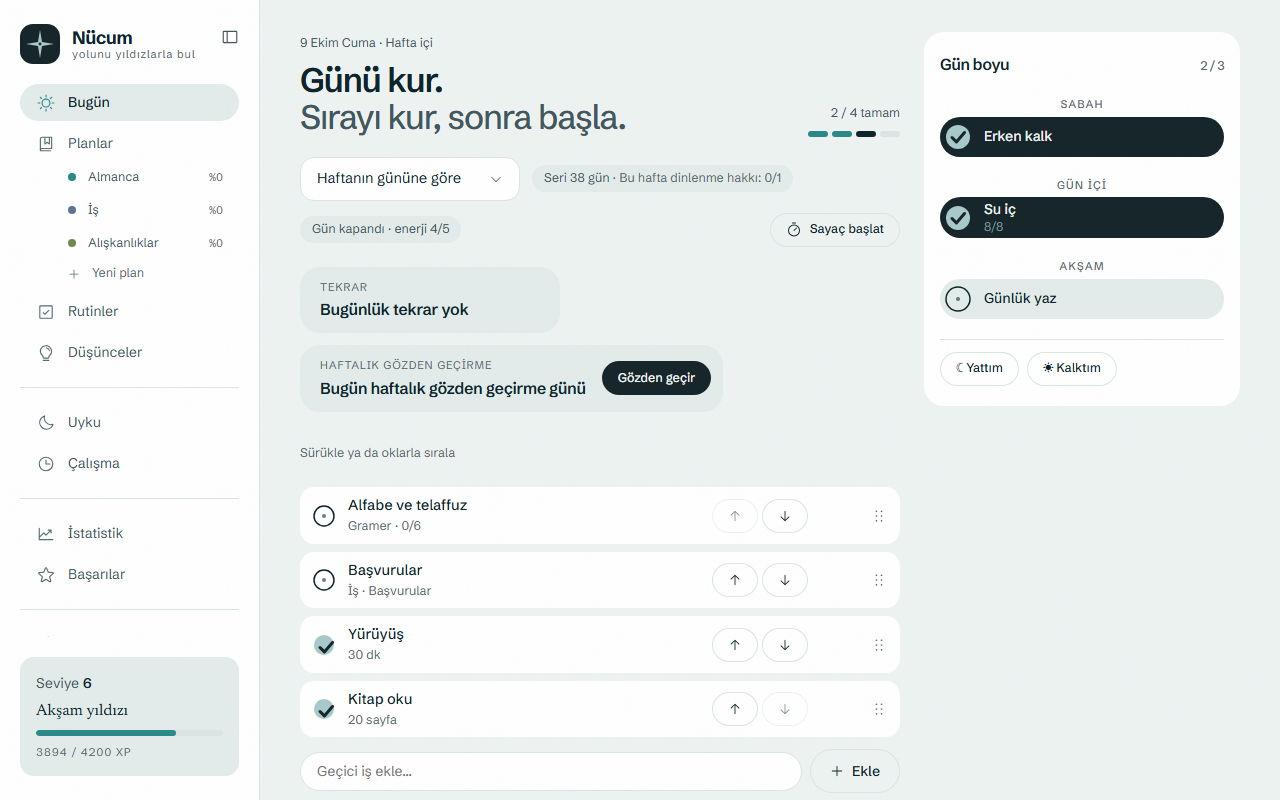
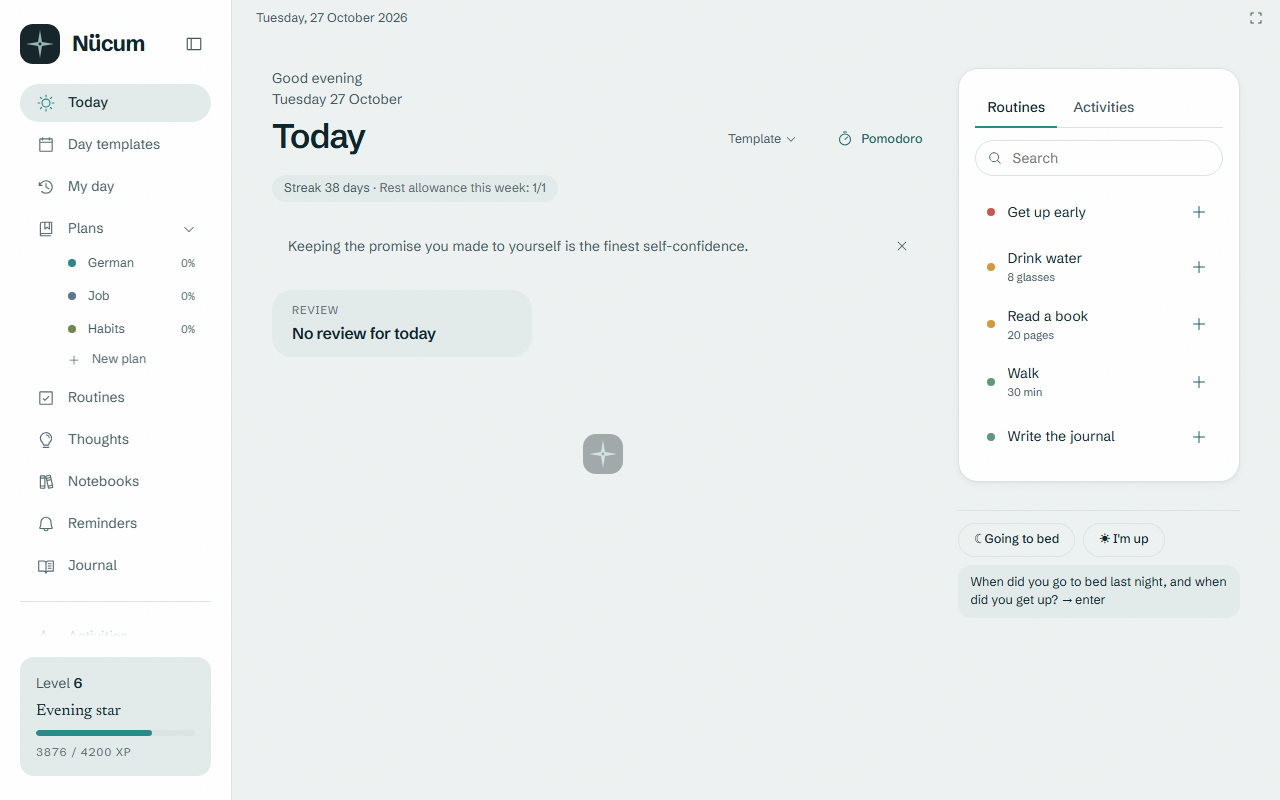
Phase 19: English UI — English screenshots, ADR 0047, i18n code samples

diff --git a/code-samples/frontend/src/i18n/locale.ts b/code-samples/frontend/src/i18n/locale.ts
@@ -1,0 +1,86 @@
+// File summary: Date, number and percent formatting in the UI language
+// (Phase 19, DECISIONS F167). uiLocale() maps the current i18next language
+// to a BCP 47 locale: Turkish → tr-TR, English → en-GB (24-hour clock,
+// day before month, week starts on Monday, like the Turkish UI). Modules
+// keep their formatter constants, but build them with uiDateFormat /
+// uiNumberFormat instead of `new Intl.*('tr-TR')`. Tested in locale.test.ts.
+// Lives in src/i18n.
+import { currentLanguage } from './i18n';
+import type { UiLanguage } from './language-rules';
+
+export type UiLocale = 'tr-TR' | 'en-GB';
+
+// WHY en-GB and not en-US: the app is built around a 24-hour day (bedtime
+// 23:30, logical day ends at 04:00) and Monday-first weeks. en-US would
+// show "11:30 PM" and "10/27/2026", which reads oddly next to the rest.
+export function localeFor(lang: UiLanguage): UiLocale {
+  return lang === 'en' ? 'en-GB' : 'tr-TR';
+}
+
+export function uiLocale(): UiLocale {
+  return localeFor(currentLanguage());
+}
+
+// CONCEPT: Lazy formatter (resolve the locale at call time).
+// `const DATE = new Intl.DateTimeFormat('tr-TR', …)` at module level is
+// built once, when the file first loads; switching the language later would
+// leave it Turkish forever. These wrappers keep the same shape (a constant
+// with .format()), but pick the Intl object for the CURRENT locale on every
+// call. Intl objects are slow to build, so each locale+options pair is
+// built once and cached.
+// GOTCHA: the cache key is the options as JSON. Options objects written in
+// a different key order get two cache entries; harmless, just one more.
+// INTERVIEW: "Why not create Intl.DateTimeFormat inside render?" → it is
+// expensive (locale data lookup); cache it, but key the cache by locale.
+// → Roadmap: Ay 2 · Faz 7 — Localization & Globalization
+const dateCache = new Map<string, Intl.DateTimeFormat>();
+const numberCache = new Map<string, Intl.NumberFormat>();
+
+function cachedDate(locale: UiLocale, options: Intl.DateTimeFormatOptions): Intl.DateTimeFormat {
+  const key = `${locale}|${JSON.stringify(options)}`;
+  let f = dateCache.get(key);
+  if (!f) {
+    f = new Intl.DateTimeFormat(locale, options);
+    dateCache.set(key, f);
+  }
+  return f;
+}
+
+function cachedNumber(locale: UiLocale, options: Intl.NumberFormatOptions): Intl.NumberFormat {
+  const key = `${locale}|${JSON.stringify(options)}`;
+  let f = numberCache.get(key);
+  if (!f) {
+    f = new Intl.NumberFormat(locale, options);
+    numberCache.set(key, f);
+  }
+  return f;
+}
+
+export interface UiDateFormat {
+  format(date?: Date | number): string;
+  formatToParts(date?: Date | number): Intl.DateTimeFormatPart[];
+}
+
+export interface UiNumberFormat {
+  format(value: number | bigint): string;
+}
+
+// `locale` is for tests and for code that must format in a fixed language;
+// the UI leaves it out.
+export function uiDateFormat(options: Intl.DateTimeFormatOptions, locale?: () => UiLocale): UiDateFormat {
+  const pick = () => cachedDate(locale ? locale() : uiLocale(), options);
+  return {
+    format: (date) => pick().format(date),
+    formatToParts: (date) => pick().formatToParts(date),
+  };
+}
+
+export function uiNumberFormat(options: Intl.NumberFormatOptions = {}, locale?: () => UiLocale): UiNumberFormat {
+  return { format: (value) => cachedNumber(locale ? locale() : uiLocale(), options).format(value) };
+}
+
+// Percent from a 0–100 number: Turkish puts the sign first ("%67"),
+// English after ("67%"). Intl knows which; a template like `%${n}` does not.
+export function formatPercent(value: number, maximumFractionDigits = 0, locale: UiLocale = uiLocale()): string {
+  return cachedNumber(locale, { style: 'percent', maximumFractionDigits }).format(value / 100);
+}

diff --git a/code-samples/frontend/src/i18n/i18n-parity.test.ts b/code-samples/frontend/src/i18n/i18n-parity.test.ts
@@ -1,0 +1,70 @@
+// File summary: Turkish/English parity of the UI copy (Phase 19, DECISIONS
+// F165, ADR 0047). For every namespace in src/i18n/tr (source.json too) an
+// English twin must exist with the same keys and the same {{placeholders}},
+// and English values must not carry Turkish letters (a forgotten copy-paste
+// would show Turkish in the English UI). Runs with `npm run test` (vitest).
+import { existsSync, readdirSync, readFileSync } from 'node:fs';
+import path from 'node:path';
+import { describe, expect, it } from 'vitest';
+
+const dir = import.meta.dirname;
+const namespaces = readdirSync(path.join(dir, 'tr')).filter((f) => f.endsWith('.json'));
+
+type Json = string | number | boolean | null | Json[] | { [k: string]: Json };
+
+// Flattens {"a":{"b":"x"},"c":["y"]} to [["a.b","x"],["c.0","y"]].
+function flatten(value: Json, prefix = '', out = new Map<string, string>()): Map<string, string> {
+  if (typeof value === 'string') out.set(prefix, value);
+  else if (Array.isArray(value)) value.forEach((v, i) => flatten(v, prefix ? `${prefix}.${i}` : String(i), out));
+  else if (value !== null && typeof value === 'object') {
+    for (const [k, v] of Object.entries(value)) flatten(v, prefix ? `${prefix}.${k}` : k, out);
+  } else out.set(prefix, String(value));
+  return out;
+}
+
+// A missing twin loads as empty, so the key test lists what is missing
+// instead of the whole file crashing at collection time.
+function load(lang: string, file: string): Map<string, string> {
+  const p = path.join(dir, lang, file);
+  return existsSync(p) ? flatten(JSON.parse(readFileSync(p, 'utf8')) as Json) : new Map<string, string>();
+}
+
+// "{{n, plural(one: day; other: days)}}" → "n". English may use a variable
+// twice (number + plural word), so names are compared as sets.
+function placeholders(text: string): string[] {
+  const names = [...text.matchAll(/\{\{\s*([^,}\s]+)[^}]*\}\}/g)].map((m) => m[1] ?? '');
+  return [...new Set(names)].sort();
+}
+
+// Turkish-only grammar helpers English does not need (the locative suffix
+// after a time: "07:30'da").
+const DROPPABLE = new Set(['sfx']);
+
+// Texts that are meant to stay as they are in English: language names
+// written in their own language. The app name "Nücum" is a proper name.
+const TURKISH_ALLOWED = new Set(['pages.json:settings.language.tr', 'pages.json:settings.cards.language']);
+const TURKISH_LETTERS = /[çğıİöşüÇĞÖŞÜ]/;
+
+describe.each(namespaces)('%s', (file) => {
+  const tr = load('tr', file);
+  const en = load('en', file);
+
+  it('has the same keys in English', () => {
+    expect([...en.keys()].filter((k) => !tr.has(k))).toEqual([]);
+    expect([...tr.keys()].filter((k) => !en.has(k))).toEqual([]);
+  });
+
+  it('keeps every {{placeholder}}', () => {
+    const wrong = [...tr].filter(([k, v]) => {
+      const want = placeholders(v);
+      const got = placeholders(en.get(k) ?? '');
+      return en.has(k) && (got.some((p) => !want.includes(p)) || want.some((p) => !got.includes(p) && !DROPPABLE.has(p)));
+    }).map(([k]) => k);
+    expect(wrong).toEqual([]);
+  });
+
+  it('has no Turkish letters in English', () => {
+    const turkish = [...en].filter(([k, v]) => TURKISH_LETTERS.test(v.replaceAll('Nücum', '')) && !TURKISH_ALLOWED.has(`${file}:${k}`)).map(([k, v]) => `${k}: ${v}`);
+    expect(turkish).toEqual([]);
+  });
+});

diff --git a/code-samples/frontend/src/i18n/plural.ts b/code-samples/frontend/src/i18n/plural.ts
@@ -1,0 +1,25 @@
+// File summary: The "plural" interpolation formatter for i18next (Phase 19,
+// DECISIONS F168). English copy writes `{{n}} {{n, plural(one: day; other:
+// days)}}`; this picks the word with Intl.PluralRules. Turkish copy never
+// uses it (Turkish nouns do not change after a number). Registered in
+// i18n.ts, tested in plural.test.ts. Lives in src/i18n.
+
+// CONCEPT: Plural rules (CLDR).
+// Languages split numbers into groups: English has "one" (1) and "other"
+// (0, 2, 1.5 …); Arabic has six groups. Intl.PluralRules knows them, so the
+// copy only names the forms it needs and the browser picks the group.
+// WHY: i18next's own plurals want a `count` option and a key per form
+// (day_one, day_other). That would change hundreds of t() calls that pass
+// `{ n }` today. One formatter keeps every call as it is.
+// GOTCHA: a missing form falls back to "other", then to an empty string,
+// never to the raw format text; a non-number value is shown as "other".
+// INTERVIEW: "How do you handle plurals in i18n?" → never `n === 1 ? …`;
+// use CLDR rules (Intl.PluralRules), because many languages have more than
+// two forms.
+// → Roadmap: Ay 2 · Faz 7 — Localization & Globalization
+export function pluralWord(value: unknown, lng: string | undefined, forms: Readonly<Record<string, unknown>>): string {
+  const n = typeof value === 'number' ? value : Number(value);
+  const group = Number.isFinite(n) ? new Intl.PluralRules(lng ?? 'en').select(n) : 'other';
+  const word = forms[group] ?? forms['other'];
+  return typeof word === 'string' ? word : '';
+}

diff --git a/code-samples/frontend/src/api/client.ts b/code-samples/frontend/src/api/client.ts
@@ -1,3 +1,4 @@
+import { currentLanguage } from '../i18n/i18n';
 // File summary: Minimal fetch wrapper that attaches the Nücum session token
 // to every request. In Tauri, the token is read from a Tauri command on
 // startup. In dev (plain browser), it falls back to the launchSettings
@@ -64,6 +65,9 @@ export async function apiFetch(path: string, init: RequestInit = {}): Promise<Re
   const headers = new Headers(init.headers);
   headers.set('Authorization', `Bearer ${token}`);
   if (!headers.has('Accept')) headers.set('Accept', 'application/json');
+  // Phase 19 (DECISIONS F169): the server picks the English or Turkish twin
+  // of its shipped content (gallery, module type notes, Journal export).
+  if (!headers.has('Accept-Language')) headers.set('Accept-Language', currentLanguage());
   return (s.fetch ?? fetch)(`${base}${path}`, { ...init, headers });
 }
 

diff --git a/code-samples/backend/src/Nucum.SharedKernel/Primitives/ContentLanguage.cs b/code-samples/backend/src/Nucum.SharedKernel/Primitives/ContentLanguage.cs
@@ -1,0 +1,88 @@
+// File summary: Which language the app's own shipped content is served in
+// for the current request (Phase 19, DECISIONS F169, ADR 0047). The server
+// stays language-free (errors are codes, the client translates); only
+// content that ships WITH the app — the template gallery, plan module type
+// notes, the Journal export — has an English twin.
+// ContentLanguageMiddleware (Nucum.Api) reads the client's Accept-Language
+// and opens a scope with Use(); modules read ContentLanguage.Current.
+// Lives in Nucum.SharedKernel.Primitives.
+namespace Nucum.SharedKernel.Primitives;
+
+using System.Globalization;
+
+public static class ContentLanguage
+{
+    public const string Turkish = "tr";
+    public const string English = "en";
+
+    public static readonly CultureInfo TurkishCulture = CultureInfo.GetCultureInfo("tr-TR");
+    public static readonly CultureInfo EnglishCulture = CultureInfo.GetCultureInfo("en-GB");
+
+    // CONCEPT: AsyncLocal<T> as per-request state.
+    // An AsyncLocal value flows with the async call chain: set at the start of
+    // a request, every handler awaited inside that request sees it, and no
+    // other request does. HttpContext would do the same, but modules must not
+    // depend on ASP.NET Core types.
+    // WHY not CultureInfo.CurrentUICulture: outside a request (workers, unit
+    // tests) it is the machine's Windows language. An English Windows would
+    // then export the Journal in English from a background job, and a test
+    // that expects Turkish would pass on one machine and fail on another.
+    // Here the default is always Turkish, the original.
+    // GOTCHA: a value set inside an awaited method does not flow back to the
+    // caller; set it in the middleware, before `await next`.
+    // INTERVIEW: "How do you keep per-request data without passing it
+    // everywhere?" → AsyncLocal (what IHttpContextAccessor uses inside); keep
+    // it small and always reset it when the scope ends.
+    // → Roadmap: Ay 2 · Faz 7 — Localization & Globalization
+    private static readonly AsyncLocal<string?> current = new();
+
+    public static string Current => current.Value ?? Turkish;
+
+    public static bool IsEnglish => Current == English;
+
+    // The culture for formatting shipped text (dates in the Journal export).
+    public static CultureInfo Culture => IsEnglish ? EnglishCulture : TurkishCulture;
+
+    // Opens a language scope; disposing it puts the previous value back.
+    public static IDisposable Use(string language)
+    {
+        var previous = current.Value;
+        current.Value = language == English ? English : Turkish;
+        return new Scope(previous);
+    }
+
+    private sealed class Scope(string? previous) : IDisposable
+    {
+        public void Dispose() => current.Value = previous;
+    }
+
+    // Accept-Language may list several languages with weights
+    // ("en-GB,en;q=0.9,tr;q=0.8"). The best-weighted one that we support
+    // wins; nothing supported (or no header) means Turkish, the original.
+    public static string FromAcceptLanguage(string? header)
+    {
+        if (string.IsNullOrWhiteSpace(header)) return Turkish;
+        var best = header.Split(',')
+            .Select((part, index) =>
+            {
+                var bits = part.Split(';');
+                var tag = bits[0].Trim().ToLowerInvariant();
+                var q = 1.0;
+                foreach (var b in bits.Skip(1))
+                {
+                    var kv = b.Trim();
+                    if (kv.StartsWith("q=", StringComparison.Ordinal) &&
+                        double.TryParse(kv[2..], NumberStyles.Float, CultureInfo.InvariantCulture, out var parsed)) q = parsed;
+                }
+                return (Tag: tag, Q: q, Index: index);
+            })
+            .Where(x => x.Q > 0 && (IsTag(x.Tag, English) || IsTag(x.Tag, Turkish)))
+            .OrderByDescending(x => x.Q).ThenBy(x => x.Index)
+            .Select(x => IsTag(x.Tag, English) ? English : Turkish)
+            .FirstOrDefault();
+        return best ?? Turkish;
+    }
+
+    private static bool IsTag(string tag, string lang) =>
+        tag == lang || tag.StartsWith(lang + "-", StringComparison.Ordinal);
+}

diff --git a/adr/0047-english-ui-language.md b/adr/0047-english-ui-language.md
@@ -1,0 +1,71 @@
+# ADR 0047 — An English UI next to Turkish
+
+**Status:** Accepted · 2026-10-26 · Phase 19 (desktop 0.19.0)
+**Related:** DECISIONS F164–F171, `frontend/src/i18n/` (`language.ts`, `locale.ts`, `en/`), `packages/shared/coach`, `backend/.../Plans/Gallery/en/`
+
+## Context
+
+The app was Turkish only, but the i18n pipeline was there from Phase 1: every
+visible word comes from `frontend/src/i18n/tr/*.json` and a test fails on text
+written in code. The public README is read by people who do not read Turkish.
+The phone keeps Turkish for now (a later mobile stage).
+
+Three kinds of text are not plain UI copy:
+
+- **Text that came from the user's source plans** (`tr/source.json`): button
+  labels and messages of the Sleep / Work / Routines and plan pages. The rule
+  is that this text is never rewritten; the fidelity tests compare it byte by
+  byte with the sources.
+- **Data**: plan content, routine names, the personal pack. It is the user's
+  own words.
+- **Content shipped with the app**: the plan template gallery, coach messages
+  and quotes, the demo pack.
+
+## Decision
+
+- **One setting, `ui.language` = `system` | `tr` | `en`.** It is not seeded;
+  absent means `system`, which follows the WebView's `navigator.languages`
+  (WebView2 reports the Windows display language): a `tr*` language gives
+  Turkish, anything else English. The value lives in the settings table like
+  every other preference (no browser storage) and switches the UI live.
+- **The client owns UI text.** `en/*.json` mirrors every `tr` namespace,
+  and a parity test checks that both have the same keys and the same
+  `{{placeholders}}`.
+- **Source-plan text keeps its Turkish original.** `tr/source.json` is not
+  touched; English mode reads an English counterpart in `en/source.json`.
+  The user approved this on 2026-10-26.
+- **Data is never translated.** A routine named "Okuma" stays "Okuma" in
+  English mode.
+- **Formatting follows the language**: one `uiLocale()` (`tr-TR` / `en-GB`)
+  for dates, numbers and percentages. Formatters are created per call, not at
+  module load, so a language switch reaches them. Search folding stays
+  Turkish-aware because it folds data, not UI.
+- **English plurals without touching call sites:** an i18next formatter
+  `{{n, plural(one: day; other: days)}}` picks the form with
+  `Intl.PluralRules`. Turkish files do not need it.
+- **The server stays language-neutral**: errors are codes that the client
+  translates. The client sends `Accept-Language`, and the few places that
+  serve shipped content choose by it: the template gallery (`Gallery/en/`),
+  plan module type descriptions, the review prompt and the journal export.
+- **Shipped content gets English twins**: `packs/coach/messages.en.json`,
+  `packs/quotes/general.en.json`, `packs/demo-en/`.
+
+## Alternatives
+
+- **Server-side resource files (`IStringLocalizer`) for all text:** the
+  server already returns codes, and most text never touches it. Moving copy
+  to the server would double the work and split it across two stacks.
+- **`count`-based i18next plurals everywhere:** correct, but every call site
+  that passes `n` or `days` would have to change. The formatter keeps calls
+  as they are.
+- **Leaving source-plan labels Turkish in English mode:** follows the rule
+  literally, but gives a mixed-language Routines page.
+
+## Consequences
+
+- A new UI string has to be added to both languages; the parity test fails
+  otherwise.
+- User data stays in the language it was written in. A Turkish user who
+  switches to English still sees their own Turkish routine names, which is
+  expected.
+- English screenshots need English data: the demo pack has an English twin.

diff --git a/README.md b/README.md
@@ -31,7 +31,7 @@ with an **offline-first phone app** (React Native) that syncs over a private tai
 
 <img src="images/bugun.png" alt="Nücum — the Today screen" width="900" />
 
-<sub>Screenshots show the generated <b>demo pack</b> (<code>npm run demo-pack</code>), not personal data. The UI is in Turkish.</sub>
+<sub>Screenshots show the generated English <b>demo pack</b> (<code>npm run demo-pack -- --lang en</code>), not personal data. The UI is in English and Turkish (Settings → Appearance → Language; first run follows the Windows language).</sub>
 
 </div>
 
